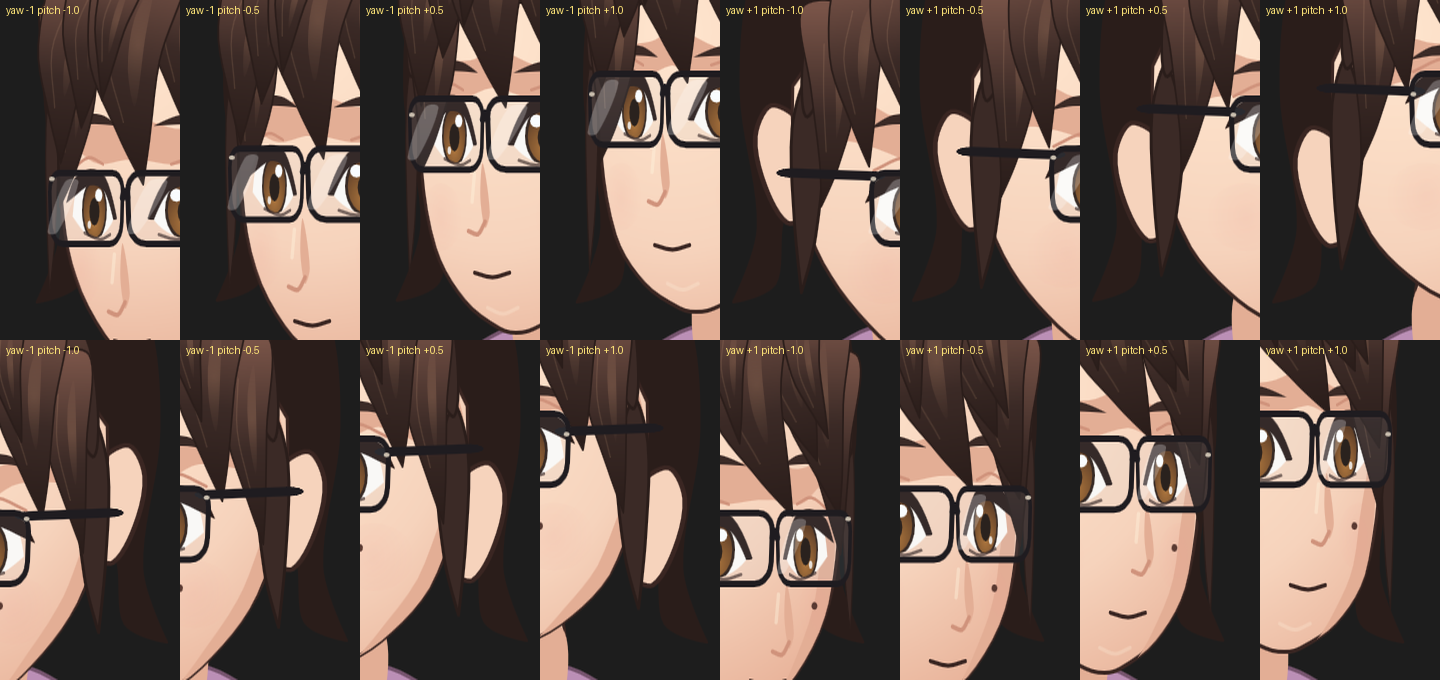
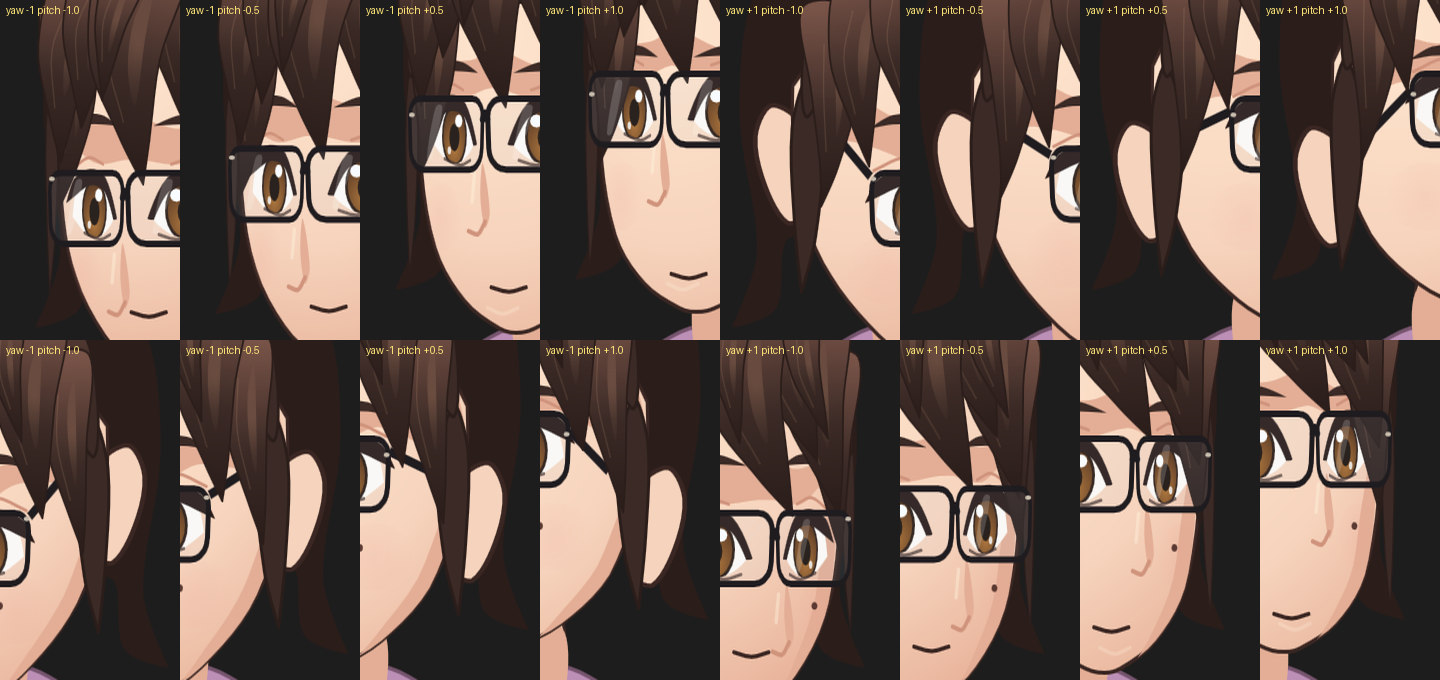
test(rive): head rig evidence for the bug-fix pass
mouth_matrix.png (mouth 0-4 and each mood mouth across yaw x pitch),
glasses.png (both sets across the turn), lag.png (follow-through
channels); grid, corners, zoom, moods, identity, turn GIF (now with
perform_turn's hair lag and eye lead) and metrics regenerated.

diff --git a/rive/tools/review_avatar_turn.py b/rive/tools/review_avatar_turn.py
@@ -111,13 +111,43 @@ def identity() -> None:
     out.save(OUT / "identity.png", optimize=True)
 
 
-# a performed turn on the real avatar: the yaw / pitch channels of rig_dsl.perform_turn, one CLI
-# run per frame (the rig is history-free; the state machine advances with the frame, so idle
-# blinks and the nod fired at frame 0 play while the head turns)
+# a performed turn on the real avatar: rig_dsl.perform_turn's yaw / pitch plus its follow-through
+# (hairLag -> hairLagYaw, gaze -> eyeLeadYaw), one CLI run per frame (the rig is history-free;
+# the state machine advances with the frame, so idle blinks and the nod fired at frame 0 play)
 # the big turn starts at 2.75 s so the avatar's own idle blink (frames 168-181) lands in it
 TURN_TARGETS = [(0.0, 0.0), (0.5, 0.8), (2.75, -0.75), (4.0, 0.0)]
 TURN_SECONDS = 5.0
 STEP = 2  # every 2nd 60 fps frame -> a 30 fps GIF
+
+
+LOWER_FACE = (290, 420, 510, 574)  # mouth, chin and jaw (artboard px)
+MOUTH_STATES: list[tuple[str, dict[str, str]]] = [
+    *[(f"mouth {m}", {"mouth": str(m)}) for m in range(5)],
+    *[(mood, {"mood": mood}) for mood in ("happy", "sad", "angry", "surprised", "thinking", "embarrassed")]]
+
+
+def mouth_matrix() -> None:
+    """Every mouth (0-4 and each mood mouth) at yaw {-1, 0, 1} x pitch {-1, -0.5, 0, 1}."""
+    poses = [(y, p) for y in (-1.0, 0.0, 1.0) for p in (-1.0, -0.5, 0.0, 1.0)]
+    jobs = [(f"{tag} y{y:+.0f} p{p:+.1f}", {**data, "yaw": f"{y:g}", "pitch": f"{p:g}"}, 40)
+            for tag, data in MOUTH_STATES for y, p in poses]
+    sheet(render_cells(jobs, LOWER_FACE, (150, 105), "mouth"), len(poses), "mouth_matrix.png")
+
+
+def glasses() -> None:
+    """Both glasses sets across the turn: lenses, glints and the near temple, eye band zoom."""
+    jobs = [(f"{g} yaw {y:+.1f}", {"glasses": g, "yaw": f"{y:g}"}, 1)
+            for g in ("glasses", "sunglasses") for y in (-1.0, -0.5, 0.0, 0.5, 1.0)]
+    sheet(render_cells(jobs, (210, 300, 590, 480), (380, 180), "glasses"), 5, "glasses.png")
+
+
+def lag() -> None:
+    """Follow-through channels at yaw 0.5: hairLagYaw / hairLagPitch +-0.5, eyeLeadYaw +-0.6."""
+    jobs = [("yaw 0.5", {"yaw": "0.5"}, 1)]
+    jobs += [(f"{k} {v:+g}", {"yaw": "0.5", k: f"{v:g}"}, 1)
+             for k, vals in (("hairLagYaw", (-0.5, 0.5)), ("hairLagPitch", (-0.5, 0.5)), ("eyeLeadYaw", (-0.6, 0.6)))
+             for v in vals]
+    sheet(render_cells(jobs, HEAD_BOX, (240, 288), "lag"), 7, "lag.png")
 
 
 def turn() -> list[Path]:
@@ -125,7 +155,9 @@ def turn() -> list[Path]:
     frames = list(range(0, len(ch["yaw"]), STEP))
 
     def one(f: int) -> Path:
-        data = {"yaw": f"{ch['yaw'][f]:.4f}", "pitch": f"{ch['pitch'][f]:.4f}", "gestureId": "nod", "gesture": "1"}
+        data = {"yaw": f"{ch['yaw'][f]:.4f}", "pitch": f"{ch['pitch'][f]:.4f}", "gestureId": "nod", "gesture": "1",
+                "hairLagYaw": f"{max(-1.0, min(1.0, ch['hairLag'][f])):.4f}",
+                "eyeLeadYaw": f"{max(-1.0, min(1.0, ch['gaze'][f])):.4f}"}
         return cli(TMP / "turn" / f"f{f:03}.png", data, f + 1)
     with ThreadPoolExecutor(WORKERS) as ex:
         paths = list(ex.map(one, frames))
@@ -133,7 +165,7 @@ def turn() -> list[Path]:
     strip = Image.new("RGB", (220 * 8, 264))
     for k in range(8):
         strip.paste(small[k * len(small) // 8], (k * 220, 0))
-    palette = strip.quantize(colors=56, method=Image.Quantize.MEDIANCUT)
+    palette = strip.quantize(colors=48, method=Image.Quantize.MEDIANCUT)
     pal = [f.quantize(palette=palette, dither=Image.Dither.NONE) for f in small]
     pal[0].save(OUT / "turn.gif", save_all=True, append_images=pal[1:], duration=33, loop=0, optimize=True)
     picks = [round(i * (len(small) - 1) / 11) for i in range(12)]
@@ -174,10 +206,11 @@ def metrics() -> None:
 
 
 def main(argv: list[str]) -> None:
-    parts = set(argv) or {"grid", "moods", "corners", "zoom", "identity", "turn", "metrics"}
+    order = ("grid", "moods", "corners", "zoom", "glasses", "mouth_matrix", "lag", "identity", "turn", "metrics")
+    parts = set(argv) or set(order)
     OUT.mkdir(parents=True, exist_ok=True)
     subprocess.run(["rive", str(PROJ), "--once"], cwd=PROJ, check=True, capture_output=True)
-    for name in ("grid", "moods", "corners", "zoom", "identity", "turn", "metrics"):
+    for name in order:
         if name in parts:
             globals()[name]()
     for f in sorted(OUT.iterdir()):
